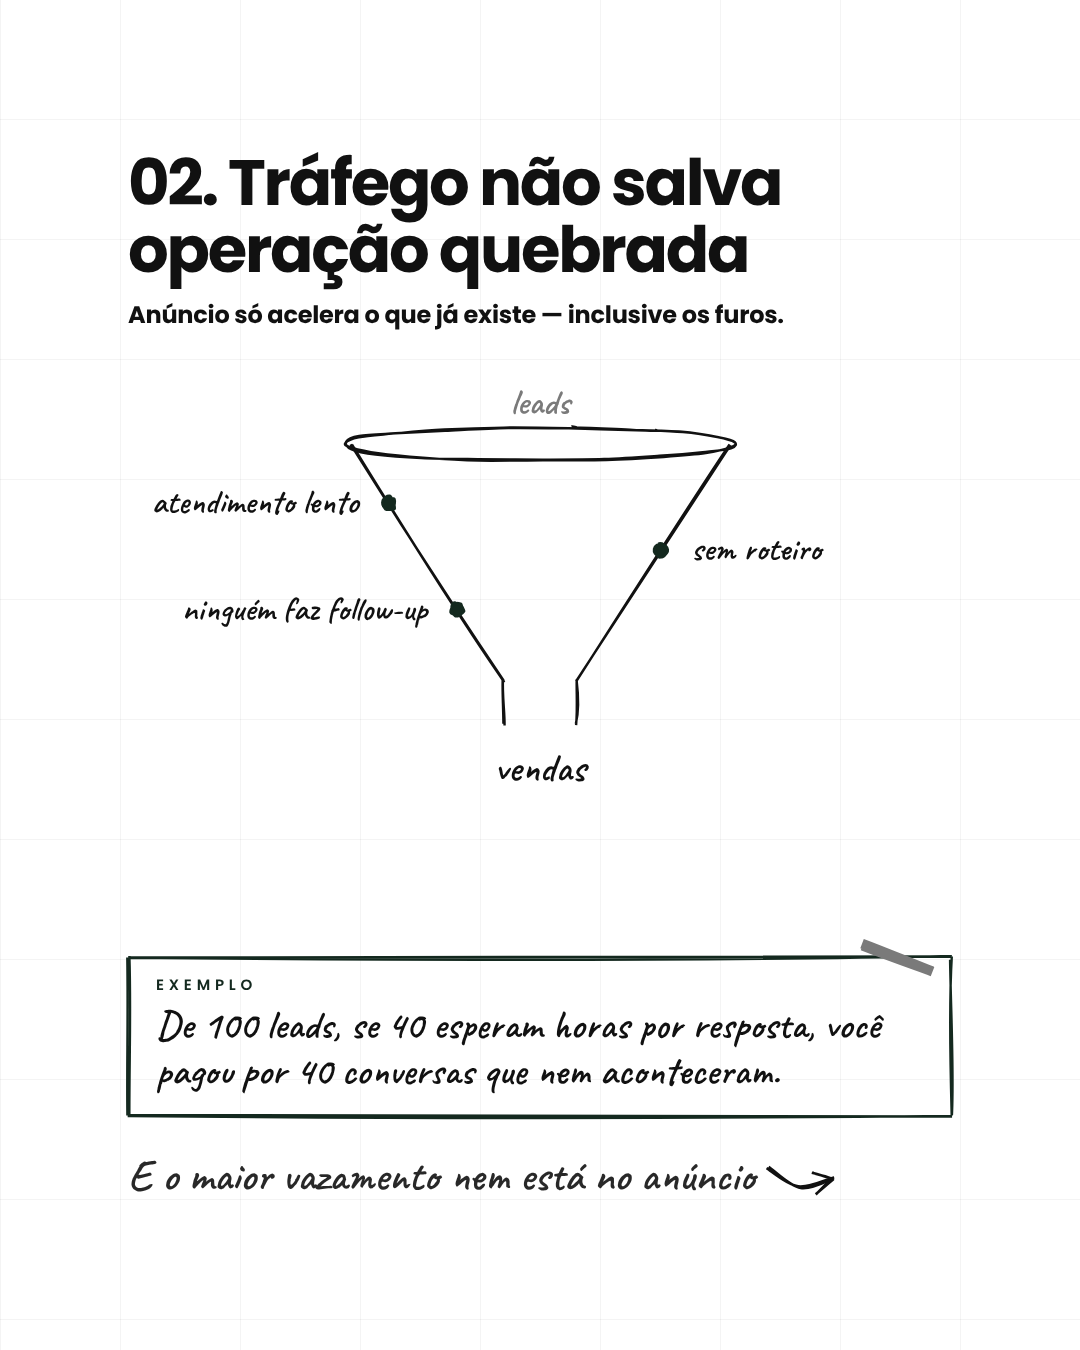
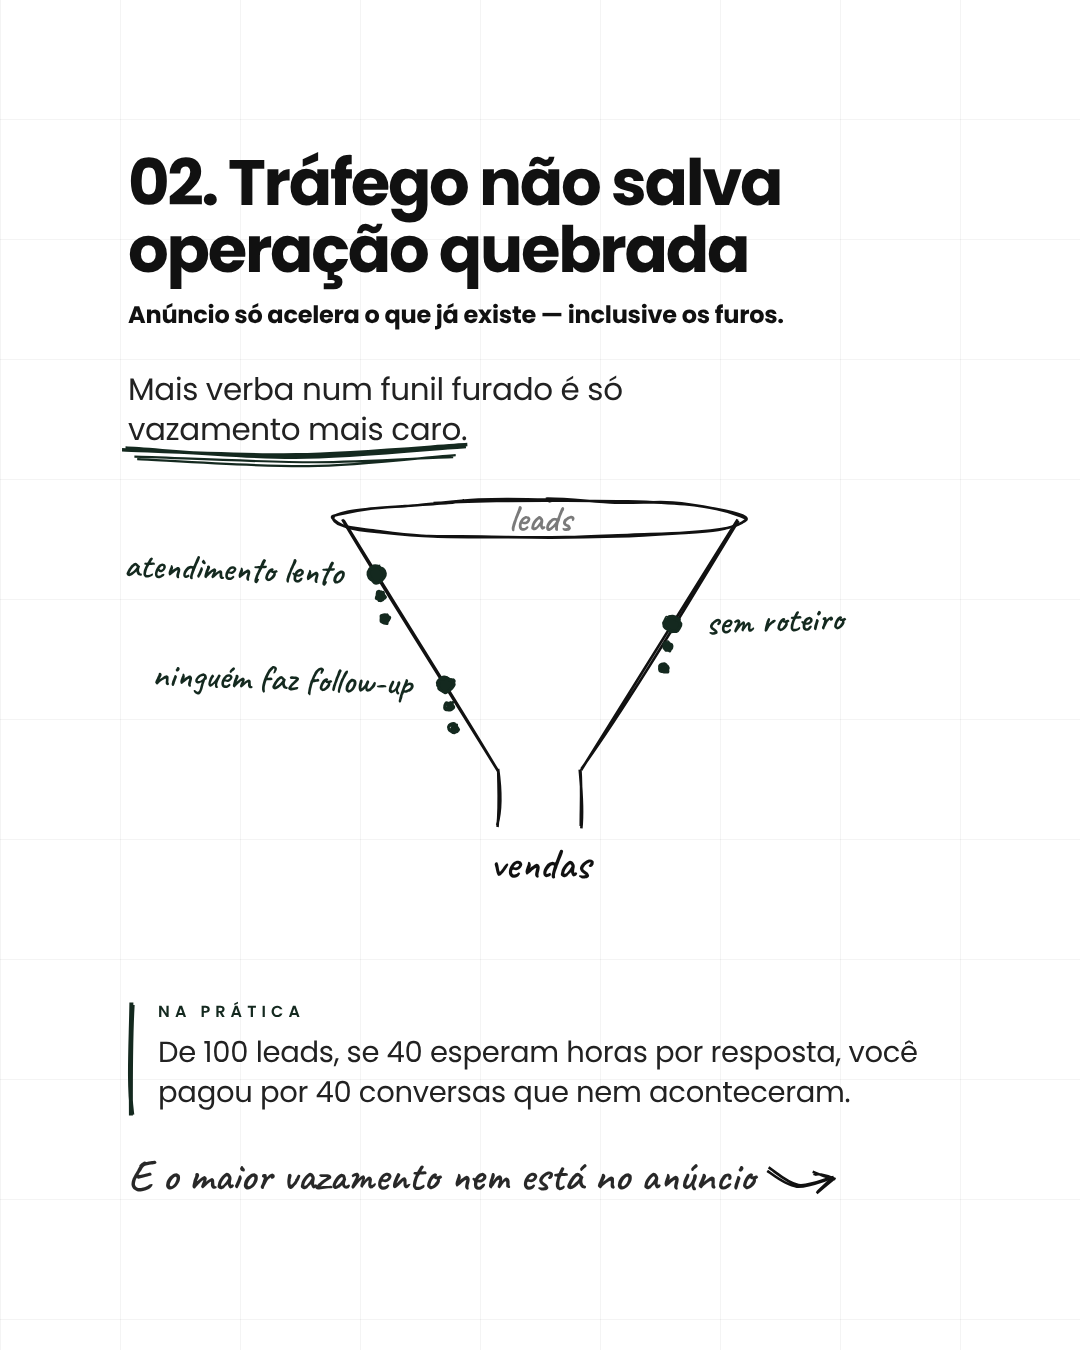
Volta aos desenhos originais refinados; exemplo legível como bloco 'Na prática'
Claude-Session: https://claude.ai/code/session_01CR2zLXebwu2nvAjBiSDjK9

diff --git a/carrossel/index.html b/carrossel/index.html
@@ -111,8 +111,8 @@ body.render .frame .num{display:none}
 .flow .txt{font-size:31px;margin-top:38px}
 .draw{position:relative;width:100%;flex:1 1 auto;min-height:220px;max-height:430px;margin:auto 0}
 .spacer{flex:1 1 auto}
-.ex{position:relative;align-self:stretch;margin-top:30px;padding:20px 28px 22px;font:600 40px/1.15 Caveat,cursive;color:var(--ink)}
-.ex .exl{display:block;font:600 15px/1 Poppins,sans-serif;letter-spacing:.32em;text-transform:uppercase;color:var(--ac);margin-bottom:10px}
+.ex{position:relative;align-self:stretch;margin-top:30px;padding:2px 0 4px 30px;font:400 29px/1.38 Poppins,sans-serif;letter-spacing:-.01em;color:var(--body)}
+.ex .exl{display:block;font:600 16px/1 Poppins,sans-serif;letter-spacing:.32em;text-transform:uppercase;color:var(--ac);margin-bottom:12px}
 .ovl{position:absolute;left:0;top:0;width:1080px;height:1350px;z-index:6;pointer-events:none;overflow:visible}
 .ovl text{font-family:Caveat,cursive;font-weight:600}
 .gancho{position:relative;z-index:5;margin-top:36px;align-self:flex-start;padding-right:84px;font:600 44px/1.1 Caveat,cursive;color:var(--ink);opacity:.9;max-width:100%}
@@ -402,7 +402,7 @@ function renderSlide(s, i, total){
       ${corpo}
       ${pos==="depois do texto"?pics:""}
       ${s.desenho?`<div class="draw" data-kind="${esc(s.desenho)}" data-labels="${esc(capColon(s.rotulos||""))}"></div>`:`<div class="spacer"></div>`}
-      ${s.exemplo?`<div class="ex"><span class="exl">Exemplo</span>${fmt(s.exemplo)}</div>`:""}
+      ${s.exemplo?`<div class="ex"><span class="exl">Na prática</span>${fmt(s.exemplo)}</div>`:""}
       ${s.gancho?`<div class="gancho" data-v="${i}">${fmt(s.gancho)}</div>`:""}
     </div>
     ${footer(s.rodape)}
@@ -422,7 +422,7 @@ function drawAll(root){
     const svg=document.createElementNS(NS,"svg"); svg.setAttribute("class","ovl"); svg.setAttribute("viewBox","0 0 1080 1350"); sl.appendChild(svg);
     const cs=getComputedStyle(sl); const ink=cs.getPropertyValue("--ink").trim()||"#111", ac=cs.getPropertyValue("--ac").trim()||ink, muted=cs.getPropertyValue("--muted").trim()||"#777";
     const rc=rough.svg(svg); let seed=hashSeed(sl.textContent.slice(0,60)+idx);
-    const O=(o={})=>Object.assign({stroke:ink,strokeWidth:2.4,roughness:1.05,bowing:.9,seed:(seed=seed+11)},o);
+    const O=(o={})=>Object.assign({stroke:ink,strokeWidth:2.6,roughness:1.4,bowing:1.2,seed:(seed=seed+11)},o);
     const add=n=>svg.appendChild(n);
     const txt=(x,y,t,size=40,anchor="start",fill=ink,rot=0)=>{const e=document.createElementNS(NS,"text");e.setAttribute("x",x);e.setAttribute("y",y);e.setAttribute("font-size",size);e.setAttribute("text-anchor",anchor);e.setAttribute("fill",fill);if(rot)e.setAttribute("transform",`rotate(${rot} ${x} ${y})`);e.textContent=t;add(e)};
     const arrow=(x1,y1,x2,y2,o={})=>{const mx=(x1+x2)/2+(o.bend||0), my=(y1+y2)/2-(o.lift??30);
@@ -441,8 +441,7 @@ function drawAll(root){
       add(rc.line(x2,y2,x2-L*Math.cos(a-0.5),y2-L*Math.sin(a-0.5),O({strokeWidth:2.6,...o})));
       add(rc.line(x2,y2,x2-L*Math.cos(a+0.5),y2-L*Math.sin(a+0.5),O({strokeWidth:2.6,...o})))};
     sl.querySelectorAll(".ex").forEach(e=>{const b=offs(e,sl);
-      add(rc.rectangle(b.x,b.y,b.w,b.h,O({stroke:ac,strokeWidth:2.4,roughness:1.4})));
-      add(rc.line(b.x+b.w-90,b.y-12,b.x+b.w-20,b.y+14,O({stroke:muted,strokeWidth:10,roughness:.8})))});
+      add(rc.line(b.x+4,b.y+2,b.x+2,b.y+b.h,O({stroke:ac,strokeWidth:4,roughness:1.2})))});
     const g=sl.querySelector(".gancho");
     if(g){const b=offs(g,sl); const r=b.x+b.w, my=b.y+b.h*.55, v=+(g.dataset.v||0)%3;
       if(v===0) head([[r-70,my+2],[r-38,my-6],[r-6,my+2]]);
@@ -456,56 +455,51 @@ function drawAll(root){
       const fill=(o={})=>O({fill:ac,fillStyle:"hachure",hachureGap:10,fillWeight:1.4,stroke:ac,...o});
       const dot=(cx,cy,r=7,c=ac)=>add(rc.circle(cx,cy,r*2,O({fill:c,fillStyle:"solid",stroke:c,roughness:.8})));
       if(k==="alvo"){
-        const lw=w*.24, lh=Math.min(h-70,300), lx=x+w*.06, ly=y+(h-70-lh)/2;
+        const lw=w*.30, lh=h-80, lx=x+10, ly=y+16;
         add(rc.rectangle(lx,ly,lw,lh,O()));
-        for(let i=0;i<4;i++){ const yy=ly+56+i*((lh-90)/3); add(rc.line(lx+28,yy,lx+lw-28-(i%2)*30,yy,O({strokeWidth:1.8,stroke:muted}))) }
-        add(rc.line(lx-12,ly+lh+12,lx+lw+12,ly-12,O({stroke:ac,strokeWidth:3.4})));
-        txt(lx+lw/2,ly+lh+56,L[0]||"",34,"middle",muted);
-        const r=Math.min(lh/2,w*.17), cx=x+w*.74, cy=ly+lh/2;
-        [1,.62].forEach(f=>add(rc.circle(cx,cy,2*r*f,O())));
-        add(rc.circle(cx,cy,2*r*.22,O({fill:ac,fillStyle:"solid",stroke:ac})));
-        txt(cx,ly+lh+56,L[1]||"",38,"middle",ink);
-        arrow(lx+lw+44,cy,cx-r-30,cy,{lift:36});
+        for(let i=0;i<5;i++){ const yy=ly+46+i*((lh-80)/4); add(rc.line(lx+28,yy,lx+lw-28-(i%2)*36,yy,O({strokeWidth:2,stroke:muted}))) }
+        add(rc.line(lx-10,ly-8,lx+lw+10,ly+lh+8,O({stroke:ac,strokeWidth:4}))); add(rc.line(lx+lw+10,ly-8,lx-10,ly+lh+8,O({stroke:ac,strokeWidth:4})));
+        txt(lx+lw/2,ly+lh+52,L[0]||"",36,"middle",muted);
+        const r=Math.min(lh/2,w*.2), cx=x+w-r-24, cy=ly+lh/2;
+        [1,.66,.33].forEach((f,i)=>add(rc.circle(cx,cy,2*r*f,O(i===2?{fill:ac,fillStyle:"solid",stroke:ac}:{}))));
+        txt(cx,ly+lh+52,L[1]||"",40,"middle",ink);
+        arrow(lx+lw+34,cy,cx-r-22,cy,{lift:42});
       } else if(k==="funil"){
-        const top=y+30, neck=y+h*.62, cx=x+w*.5, tw=w*.46, nw=w*.09;
+        const top=y+24, neck=y+h*.64, cx=x+w*.5, tw=w*.48, nw=w*.10;
         add(rc.line(cx-tw/2,top,cx-nw/2,neck,O())); add(rc.line(cx+tw/2,top,cx+nw/2,neck,O()));
-        add(rc.ellipse(cx,top,tw,32,O()));
-        add(rc.line(cx-nw/2,neck,cx-nw/2,neck+44,O())); add(rc.line(cx+nw/2,neck,cx+nw/2,neck+44,O()));
-        txt(cx,top-30,L[0]||"leads",36,"middle",muted);
-        txt(cx,neck+100,L[4]||"vendas",40,"middle",ink);
+        add(rc.ellipse(cx,top,tw,36,O()));
+        add(rc.line(cx-nw/2,neck,cx-nw/2,neck+56,O())); add(rc.line(cx+nw/2,neck,cx+nw/2,neck+56,O()));
+        txt(cx,top+12,L[0]||"leads",38,"middle",muted);
+        txt(cx,neck+108,L[4]||"vendas",44,"middle",ink);
         const edge=(t,side)=>[cx+side*(tw/2+(nw/2-tw/2)*t), top+(neck-top)*t];
-        [[.25,-1],[.45,1],[.7,-1]].forEach(([t,side],i)=>{ const [hx,hy]=edge(t,side);
-          add(rc.circle(hx,hy,12,O({fill:ac,fillStyle:"solid",stroke:ac})));
-          txt(hx+side*30, hy+10, L[i+1]||"", 34, side<0?"end":"start", ink)});
-      } else if(k==="iceberg"){
-        const wl=y+h*.30, cx=x+w*.5;
-        add(rc.line(x,wl,x+w,wl,O({stroke:muted,strokeWidth:2})));
-        add(rc.polygon([[cx-60,wl],[cx-14,wl-h*.18],[cx+50,wl]],O()));
-        add(rc.polygon([[cx-70,wl],[cx-w*.34,wl+h*.34],[cx-w*.16,wl+h*.64],[cx+w*.2,wl+h*.62],[cx+w*.36,wl+h*.30],[cx+60,wl]],O({stroke:ac,strokeWidth:2.8})));
-        txt(cx+76,wl-h*.10,L[0]||"",36,"start",ink);
-        txt(cx,wl+h*.38,L[2]||"",50,"middle",ink);
-        txt(cx,wl+h*.38+46,L[3]||"",32,"middle",muted);
-      } else if(k==="bolhas"){
-        const c1x=x+w*.20, c2x=x+w*.66, cy=y+h*.5;
-        add(rc.circle(c1x,cy,h*.42,O()));
-        add(rc.circle(c2x,cy,h*.86,fill({hachureGap:14,fillWeight:1.6})));
-        txt(c1x,cy+10,L[0]||"novo",40,"middle",ink); txt(c1x,cy+h*.21+48,L[1]||"",36,"middle",muted);
-        txt(c2x,cy+14,L[2]||"base",56,"middle",ink); txt(c2x,cy+h*.43+48,L[3]||"",36,"middle",muted);
+        [[.22,-1],[.42,1],[.66,-1]].forEach(([t,side],i)=>{ const [hx,hy]=edge(t,side);
+          add(rc.circle(hx,hy,15,O({fill:ac,fillStyle:"solid",stroke:ac})));
+          for(let j=1;j<=2;j++) add(rc.circle(hx-side*4*j,hy+22*j,8,O({fill:ac,fillStyle:"solid",stroke:ac,roughness:1})));
+          txt(hx+side*34, hy+10, L[i+1]||"", 36, side<0?"end":"start", ac, side*-2)});
+      } else if(k==="bolhas"||k==="iceberg"){
+        const c1x=x+w*.19, c2x=x+w*.64, cy=y+h*.46, R1=Math.min(h*.50,w*.28), R2=Math.min(h*.88,w*.48);
+        add(rc.circle(c1x,cy,R1,O()));
+        add(rc.circle(c2x,cy,R2,O({stroke:ac,fill:ac,fillStyle:"hachure",hachureGap:15,fillWeight:1.4})));
+        txt(c1x,cy+12,L[0]||"novo",40,"middle",ink);
+        txt(c1x,cy+R1/2+50,L[1]||"",34,"middle",muted);
+        txt(c2x,cy+16,L[2]||"base",58,"middle",ink);
+        txt(c2x,cy+R2/2+50,L[3]||"",34,"middle",muted);
       } else if(k==="grafico"){
-        const ox=x+56, oy=y+h-60, ex=x+w-20, ey=y+24, W=ex-ox, H=oy-ey;
+        const ox=x+60, oy=y+h-64, ex=x+w-20, ey=y+16, W=ex-ox, H=oy-ey;
         add(rc.line(ox,oy,ex,oy,O())); add(rc.line(ox,oy,ox,ey,O()));
-        const f=t=>ey+H*(0.06+0.86*(1-Math.exp(-t*3.2)));
-        const pts=Array.from({length:12},(_,i)=>{const t=i/11; return [ox+14+t*(W-40), f(t)]});
-        add(rc.curve(pts,O({stroke:ac,strokeWidth:3.6,roughness:.8})));
-        txt(ox-20,ey+6,L[0]||"",32,"end",muted,-90);
-        const ticks=(L[1]||"").split(",").map(t=>t.trim()).filter(Boolean), tv=[.04,.36,.86];
-        ticks.forEach((t,i)=>{const tx=ox+14+tv[i]*(W-40); add(rc.line(tx,oy-8,tx,oy+8,O({strokeWidth:2}))); txt(tx,oy+44,t,32,"middle",muted)});
-        if(L[2]){ txt(ox+W*.60,ey+H*.28,L[2],38,"middle",ink); arrow(ox+W*.64,ey+H*.36,ox+W*.80,ey+H*.74,{lift:-6,bend:24}) }
+        add(rc.line(ex,oy,ex-18,oy-10,O())); add(rc.line(ex,oy,ex-18,oy+10,O()));
+        add(rc.line(ox,ey,ox-10,ey+18,O())); add(rc.line(ox,ey,ox+10,ey+18,O()));
+        const pts=[[ox+10,ey+30],[ox+W*.12,ey+H*.2],[ox+W*.25,ey+H*.52],[ox+W*.45,ey+H*.74],[ox+W*.7,ey+H*.86],[ex-30,ey+H*.9]];
+        add(rc.curve(pts,O({stroke:ac,strokeWidth:4.4,roughness:1.1})));
+        txt(ox-20,ey+6,L[0]||"",34,"end",muted,-90);
+        const ticks=(L[1]||"").split(",").map(t=>t.trim()).filter(Boolean);
+        ticks.forEach((t,i)=>{const tx=ox+W*[.1,.42,.82][i]; add(rc.line(tx,oy-8,tx,oy+8,O({strokeWidth:2}))); txt(tx,oy+46,t,34,"middle",muted)});
+        if(L[2]){ txt(ox+W*.6,ey+H*.42,L[2],42,"middle",ink,-4); arrow(ox+W*.62,ey+H*.48,ox+W*.73,ey+H*.8,{lift:-10,bend:20}) }
       } else if(k==="pipeline"){
         const n=3, gap=86, bw=(w-2*gap)/n, by=y+h*.12, bh=Math.min(h*.56,230);
         const P=L.slice(0,3).map(t=>{const [a,b]=t.split(":");return {nome:(a||"").trim(),num:(b||"").trim()}});
         P.forEach((p,i)=>{ const bx=x+i*(bw+gap);
-          add(rc.rectangle(bx,by,bw,bh,O(i===n-1?{stroke:ac,strokeWidth:3.2}:{})));
+          add(rc.rectangle(bx,by,bw,bh,O(i===n-1?{stroke:ac,strokeWidth:4}:{})));
           txt(bx+bw/2,by+52,p.nome,38,"middle",muted);
           if(p.num) txt(bx+bw/2,by+bh*.5+58,p.num,96,"middle",ink);
           if(i<n-1){ arrow(bx+bw+12,by+bh/2,bx+bw+gap-12,by+bh/2,{lift:12});

diff --git a/carrossel/ESTILO.md b/carrossel/ESTILO.md
@@ -67,12 +67,11 @@ O slide 1 do roteiro usa `"tipo": "pronta"` apontando para `capa/capa.png`.
   que abre uma pergunta respondida só no slide seguinte. Uma linha, sem ponto final. Ex.: "E o maior vazamento nem está no anúncio".
 - **Desenhos à mão** (`"desenho"` + `"rotulos"` separados por `|`), estilo rabisco (rough.js):
   `alvo` (lista riscada → alvo), `funil` (funil com furos), `bolhas` (pequeno vs grande), `grafico` (curva caindo), `pipeline` (3 etapas).
-- **Exemplo concreto** (`"exemplo"`): nota em letra de mão numa moldura desenhada com fita, logo acima do gancho. Uma situação real, curta.
+- **Na prática** (`"exemplo"`): situação real e curta em Poppins 29 px (legível), com rótulo "NA PRÁTICA" e um traço vertical à mão na cor de destaque. Nada de caixa ou letra de mão no exemplo.
 - Desenhos disponíveis: `alvo` (lista riscada → alvo com dardo), `funil` (leads entrando, furos pingando R$), `iceberg` (ponta = cliente novo, base submersa),
   `grafico` (curva caindo com marcadores quente/morno/frio — rótulos: eixo|tempos|anotação|marcadores), `pipeline` (rótulos `nome:número`, calcula a % entre etapas), `bolhas`.
 - Marcações no texto: `[[palavra]]` = círculo à mão · `{{palavra}}` = sublinhado à mão.
-- **Menos é mais:** cada slide = título + subtítulo (1 linha) + desenho simples + exemplo + gancho. Sem parágrafo extra.
-- Desenhos limpos: traço pouco tremido, poucos rótulos, um único elemento na cor de destaque. Sem bonequinhos, hachuras ou enfeites.
+- Estrutura do slide: título + subtítulo + 1 frase curta (com círculo/sublinhado à mão) + desenho + **Na prática** + gancho.
 - Um desenho por slide no máximo; ele ocupa o espaço livre entre o texto e o gancho, centralizado.
 - **Margens:** 128 px nas laterais e 150 px em cima e embaixo. Tudo alinhado à mesma margem esquerda.
 - **Gancho:** sempre na mesma posição (embaixo, alinhado à esquerda com o texto), letra de mão + seta curta; só o traço da seta varia levemente.
